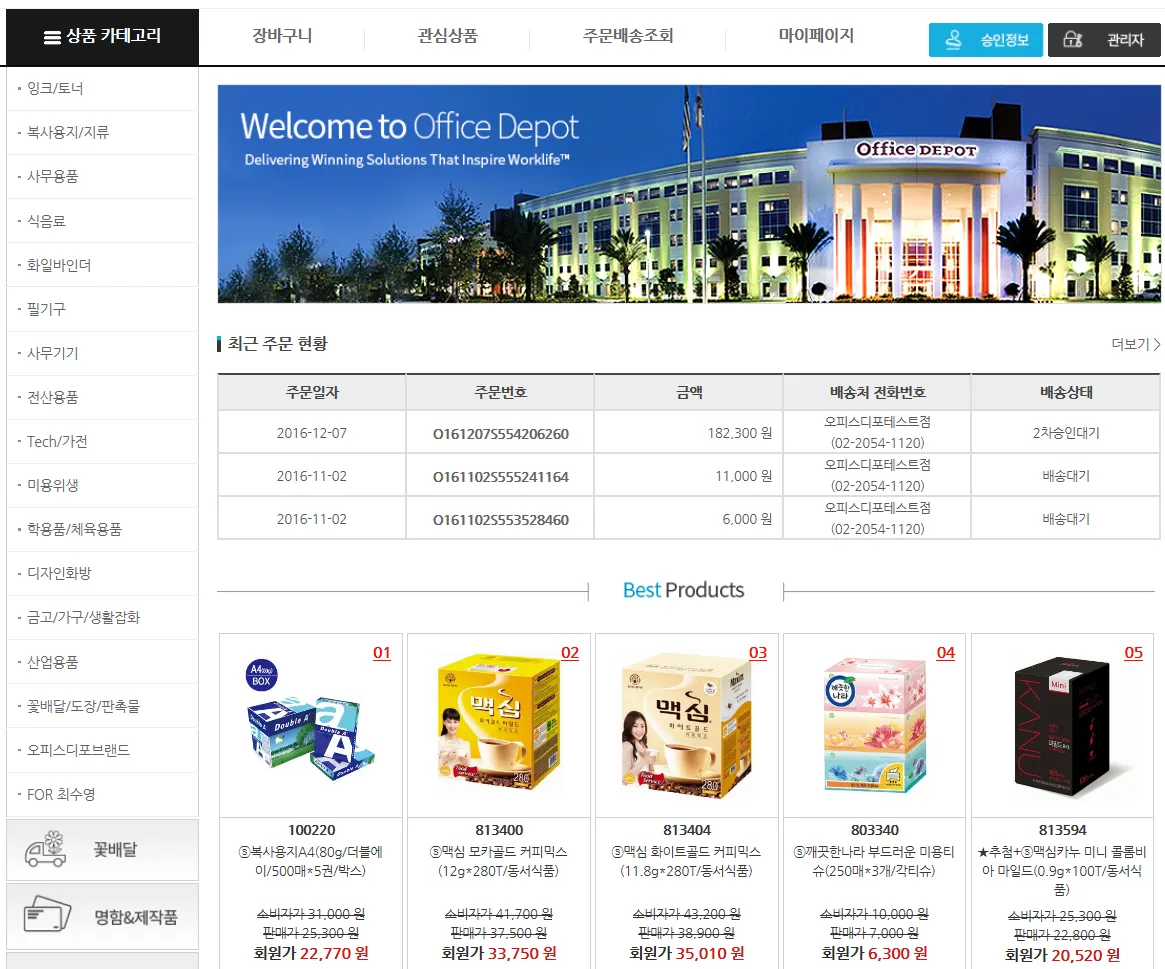
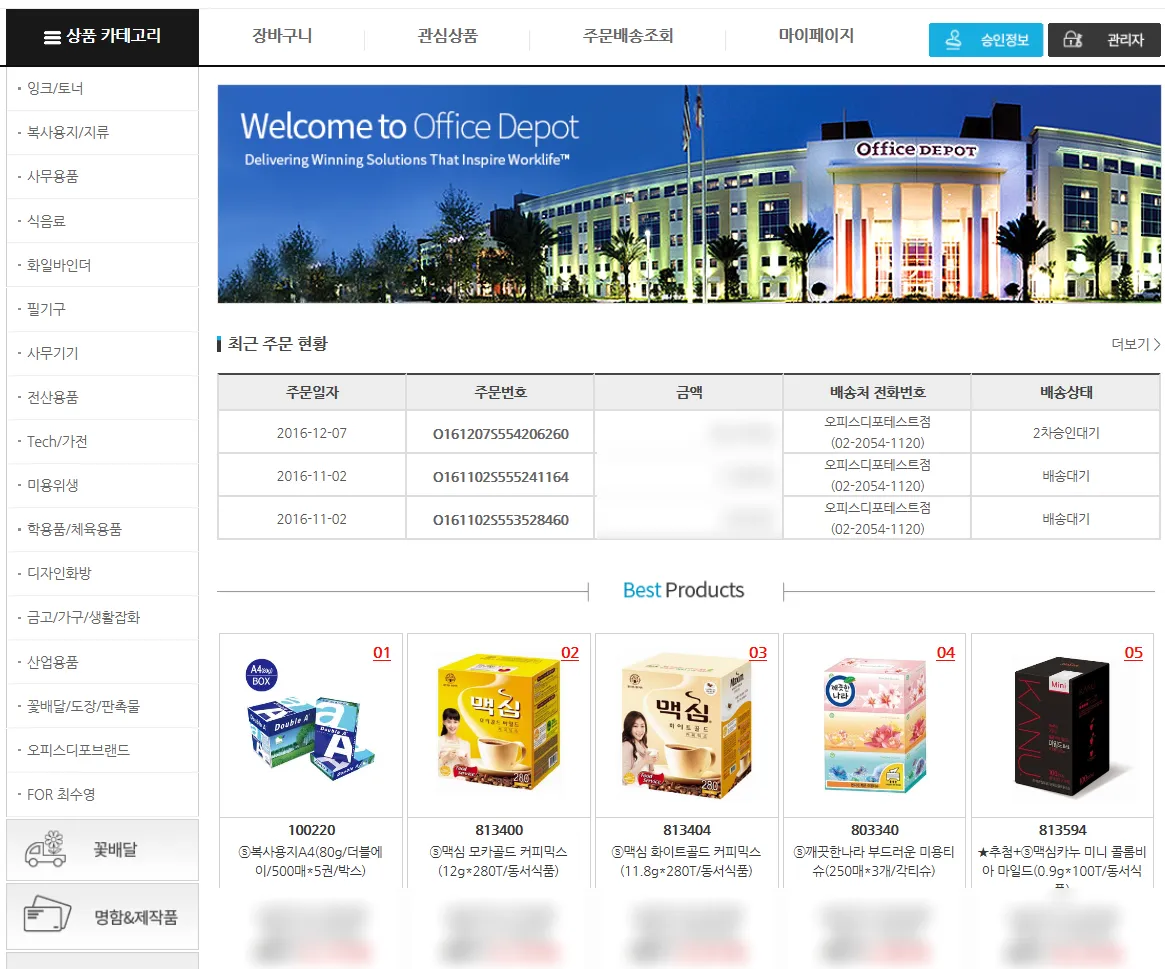
Note partial direct-delivery areas and blur prices in mall screenshot

diff --git a/src/components/PromoSlider.tsx b/src/components/PromoSlider.tsx
@@ -46,8 +46,8 @@ const slides: Slide[] = [
     image: "/photos/fleet.webp",
     alt: "오피스디포 물류센터 앞에 줄지어 선 배송 차량",
     kicker: "배송은 어떻게 오나요?",
-    title: "서울·경기·부산은 배송 기사님이 직접 갖다 드려요",
-    body: "직배송 지역은 오피스디포 차량으로, 그 외 지역은 CJ대한통운 택배로 보냅니다. 오늘 주문하시면 대부분 내일 받으세요.",
+    title: "서울·경기·부산(일부 지역 제외)은 배송 기사님이 직접 갖다 드려요",
+    body: "직배송 지역은 오피스디포 차량으로, 그 외 지역은 CJ대한통운 택배로 보냅니다. 경기도는 직배송이 안 되는 곳이 많으니 주소를 알려 주시면 확인해 드릴게요. 오늘 주문하시면 대부분 내일 받으세요.",
     stat: { value: "약 60여 대", label: "자체 배송 차량" },
     href: "/products#delivery",
     link: "배송 안내 보기",

diff --git a/src/lib/content.ts b/src/lib/content.ts
@@ -402,7 +402,7 @@ export const faqs = [
   },
   {
     q: "배송은 언제, 어떻게 오나요?",
-    a: "서울·경기·부산 직배송 지역은 16시, 그 외 지역은 12시까지 주문하면 다음 날 도착합니다. 도서·산간은 3~4일 걸리며, 배송비는 무료입니다.",
+    a: "서울·경기·부산 중 직배송 지역(일부 지역 제외, 경기도는 직배송 불가 지역이 많습니다)은 16시, 그 외 지역은 12시까지 주문하면 다음 날 도착합니다. 도서·산간은 3~4일 걸리며, 배송비는 무료입니다.",
   },
   {
     q: "결제와 세금계산서는 어떻게 하나요?",

diff --git a/src/app/(site)/page.tsx b/src/app/(site)/page.tsx
@@ -27,7 +27,7 @@ const strengths = [
   {
     no: "03",
     title: "오늘 주문, 내일 도착",
-    body: "서울·경기·부산은 오피스디포 배송 기사님이 직접 갖다 드립니다. 그 외 지역은 CJ대한통운으로 나가고, 배송비는 받지 않아요.",
+    body: "서울·경기·부산(일부 지역 제외)은 오피스디포 배송 기사님이 직접 갖다 드립니다. 그 외 지역은 CJ대한통운으로 나가고, 배송비는 받지 않아요.",
     figure: "약 60여 대",
     figureNote: "자체 배송 차량",
     href: "/products#delivery",
